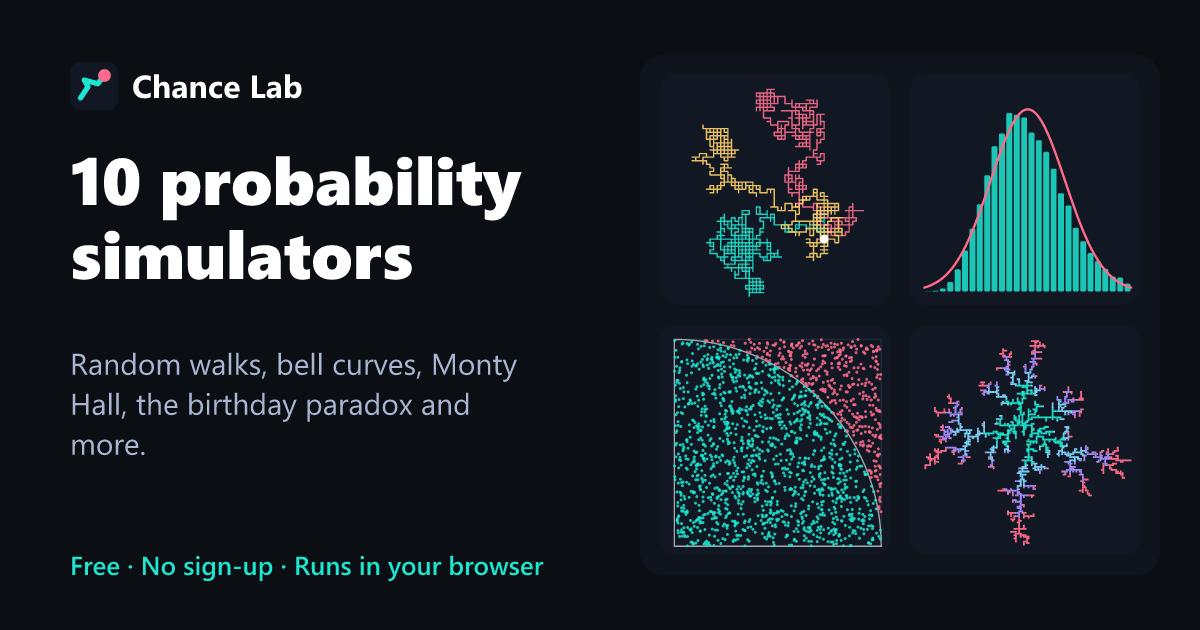
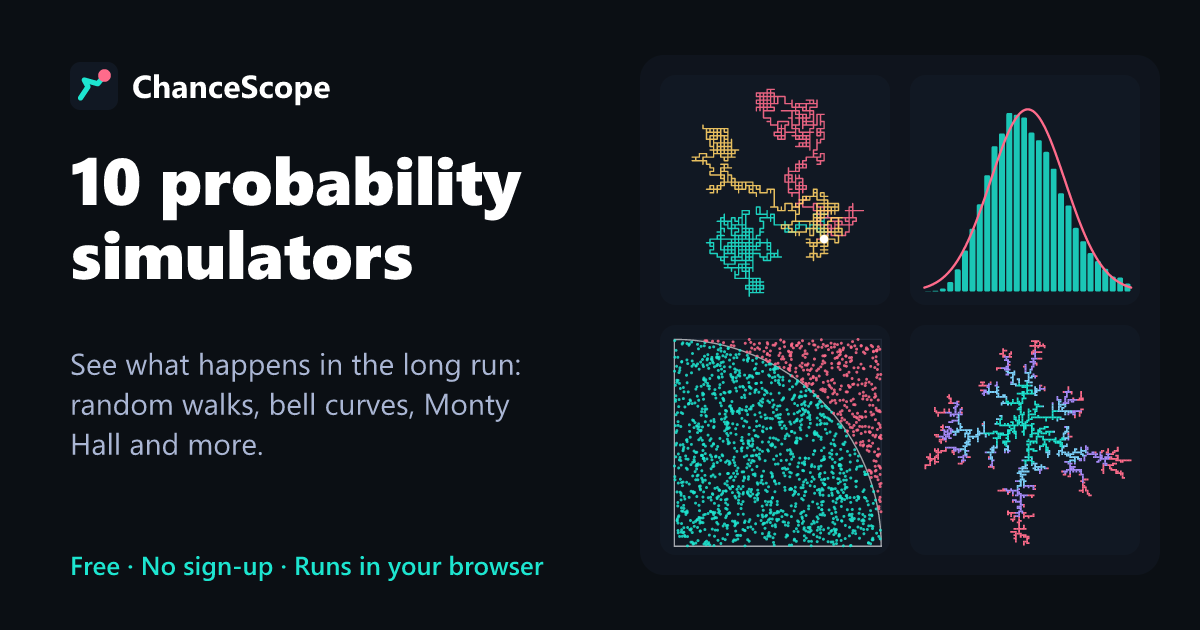
Name the site ChanceScope (chancescope.com)
Sets the name and domain in .env, the manifest and the docs, redraws the
social preview images, and adds the tagline "See what happens in the long
run." to the hub.

Changed region(s): [[0.0617, 0.5429, 0.4317, 0.6635], [0.185, 0.1206, 0.2775, 0.181], [0.0617, 0.6937, 0.2158, 0.7238]]

diff --git a/index.html b/index.html
@@ -18,7 +18,7 @@
     <meta property="og:type" content="website" />
     <meta property="og:site_name" content="%VITE_SITE_NAME%" />
     <meta property="og:title" content="%VITE_SITE_NAME% – Interactive Probability Simulators" />
-    <meta property="og:description" content="Run random walks, watch bell curves form, and test famous probability puzzles in your browser." />
+    <meta property="og:description" content="See what happens in the long run: run random walks, watch bell curves form, and test famous probability puzzles in your browser." />
     <meta property="og:url" content="%VITE_SITE_URL%/" />
     <meta property="og:image" content="%VITE_SITE_URL%/og/home.png" />
     <meta property="og:image:width" content="1200" />

diff --git a/src/pages/hub/Hub.jsx b/src/pages/hub/Hub.jsx
@@ -10,6 +10,7 @@ function Hub() {
         <h1>
           {SITE_NAME}: interactive probability simulators
         </h1>
+        <p className="hub-tagline">See what happens in the long run.</p>
         <p>
           See randomness happen instead of just reading the formula. Run random walks, watch bell curves form,
           and test famous probability puzzles in your browser. Every simulator is free, uses repeatable seeds so a

diff --git a/src/pages/hub/hub.css b/src/pages/hub/hub.css
@@ -18,6 +18,13 @@
   line-height: 1.6;
 }
 
+.hub-hero .hub-tagline {
+  margin-top: 0.6rem;
+  color: #1de5d0;
+  font-size: clamp(1.1rem, 2.4vw, 1.35rem);
+  font-weight: 600;
+}
+
 .hub-categories {
   display: grid;
   gap: 2.5rem;

diff --git a/docs/PROJECT_INTAKE.md b/docs/PROJECT_INTAKE.md
@@ -1,7 +1,7 @@
-# Project Intake - Chance Lab
+# Project Intake - ChanceScope
 
-Working name. The product name lives in `.env` (`VITE_SITE_NAME`) and can change
-before launch without touching code.
+Name chosen 2026-10-29 (was the working name "Chance Lab"; chancelab.com is a parked resale domain).
+Tagline: "See what happens in the long run." The name lives in `.env` (`VITE_SITE_NAME`).
 
 ## Identity
 
@@ -9,12 +9,12 @@ before launch without touching code.
 - Experiment class: `COMMERCIAL-CANDIDATE`
 - Type: static web utility suite
 - Strategic role: second search-driven Five54 product, after the Epoch Lens calibration
-- Owner: Five54 Precision ("Chance Lab by Five54 Precision", same pattern as WinCon)
+- Owner: Five54 Precision ("ChanceScope by Five54 Precision", same pattern as WinCon)
 - Origin: grows out of the Random Walk Simulator (random-walk-simulator.vercel.app, ~10 clicks/month)
 
 ## One sentence
 
-A student, teacher or curious learner uses Chance Lab to see a probability idea
+A student, teacher or curious learner uses ChanceScope to see a probability idea
 happen (random walks, bell curves, famous puzzles) instead of only reading the formula.
 
 ## User and problem

diff --git a/README.md b/README.md
@@ -1,10 +1,10 @@
-# Chance Lab
+# ChanceScope
 
 Interactive probability simulators by Five54 Precision: random walks, bell curves
 and famous probability puzzles you can run in the browser. It started as the
 Random Walk Simulator.
 
-Chance Lab is a working name, set in `.env`. Where things stand:
+The name and domain (chancescope.com) are set in `.env`. Where things stand:
 [STATUS](docs/STATUS.md). Why it exists and its limits:
 [PROJECT_INTAKE](docs/PROJECT_INTAKE.md).
 

diff --git a/docs/LAUNCH.md b/docs/LAUNCH.md
@@ -1,7 +1,7 @@
 # Launch runbook
 
 Steps to take the suite live on its own domain and hand over the old Vercel site's search ranking.
-Replace `NEW_DOMAIN` with the real domain (for example `chancelab.com`) everywhere below.
+Domain: `chancescope.com` (written as `NEW_DOMAIN` below).
 
 ## 1. Name and domain
 
